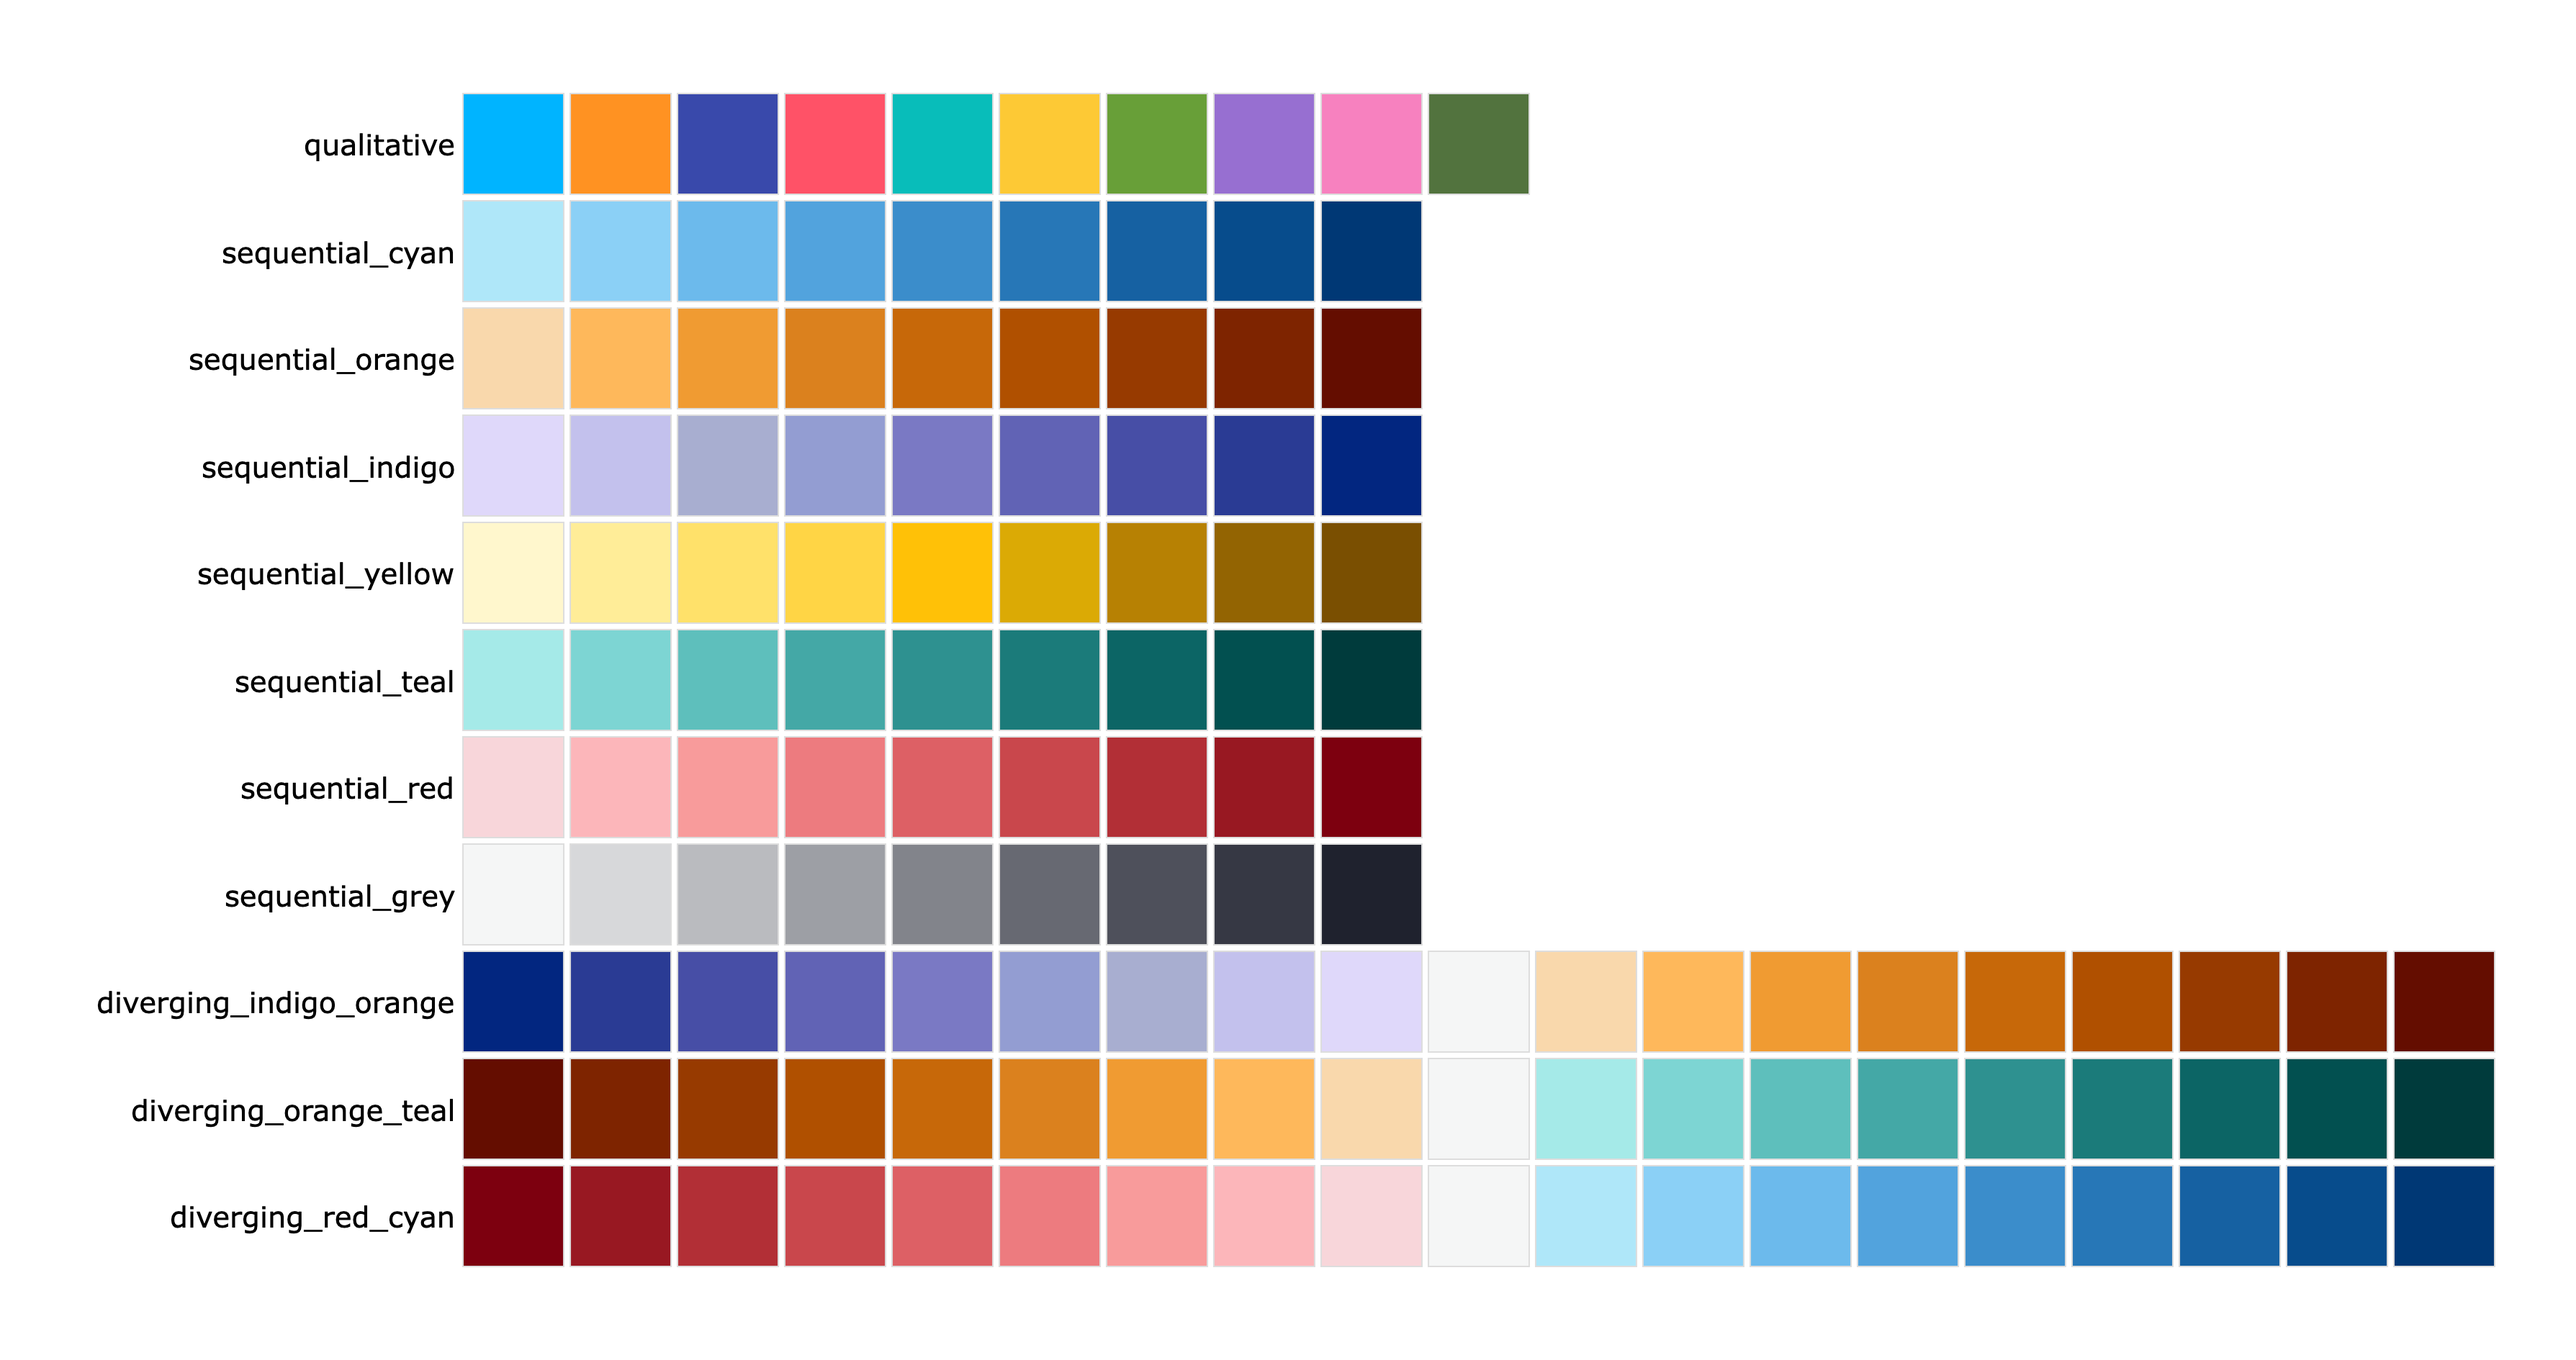
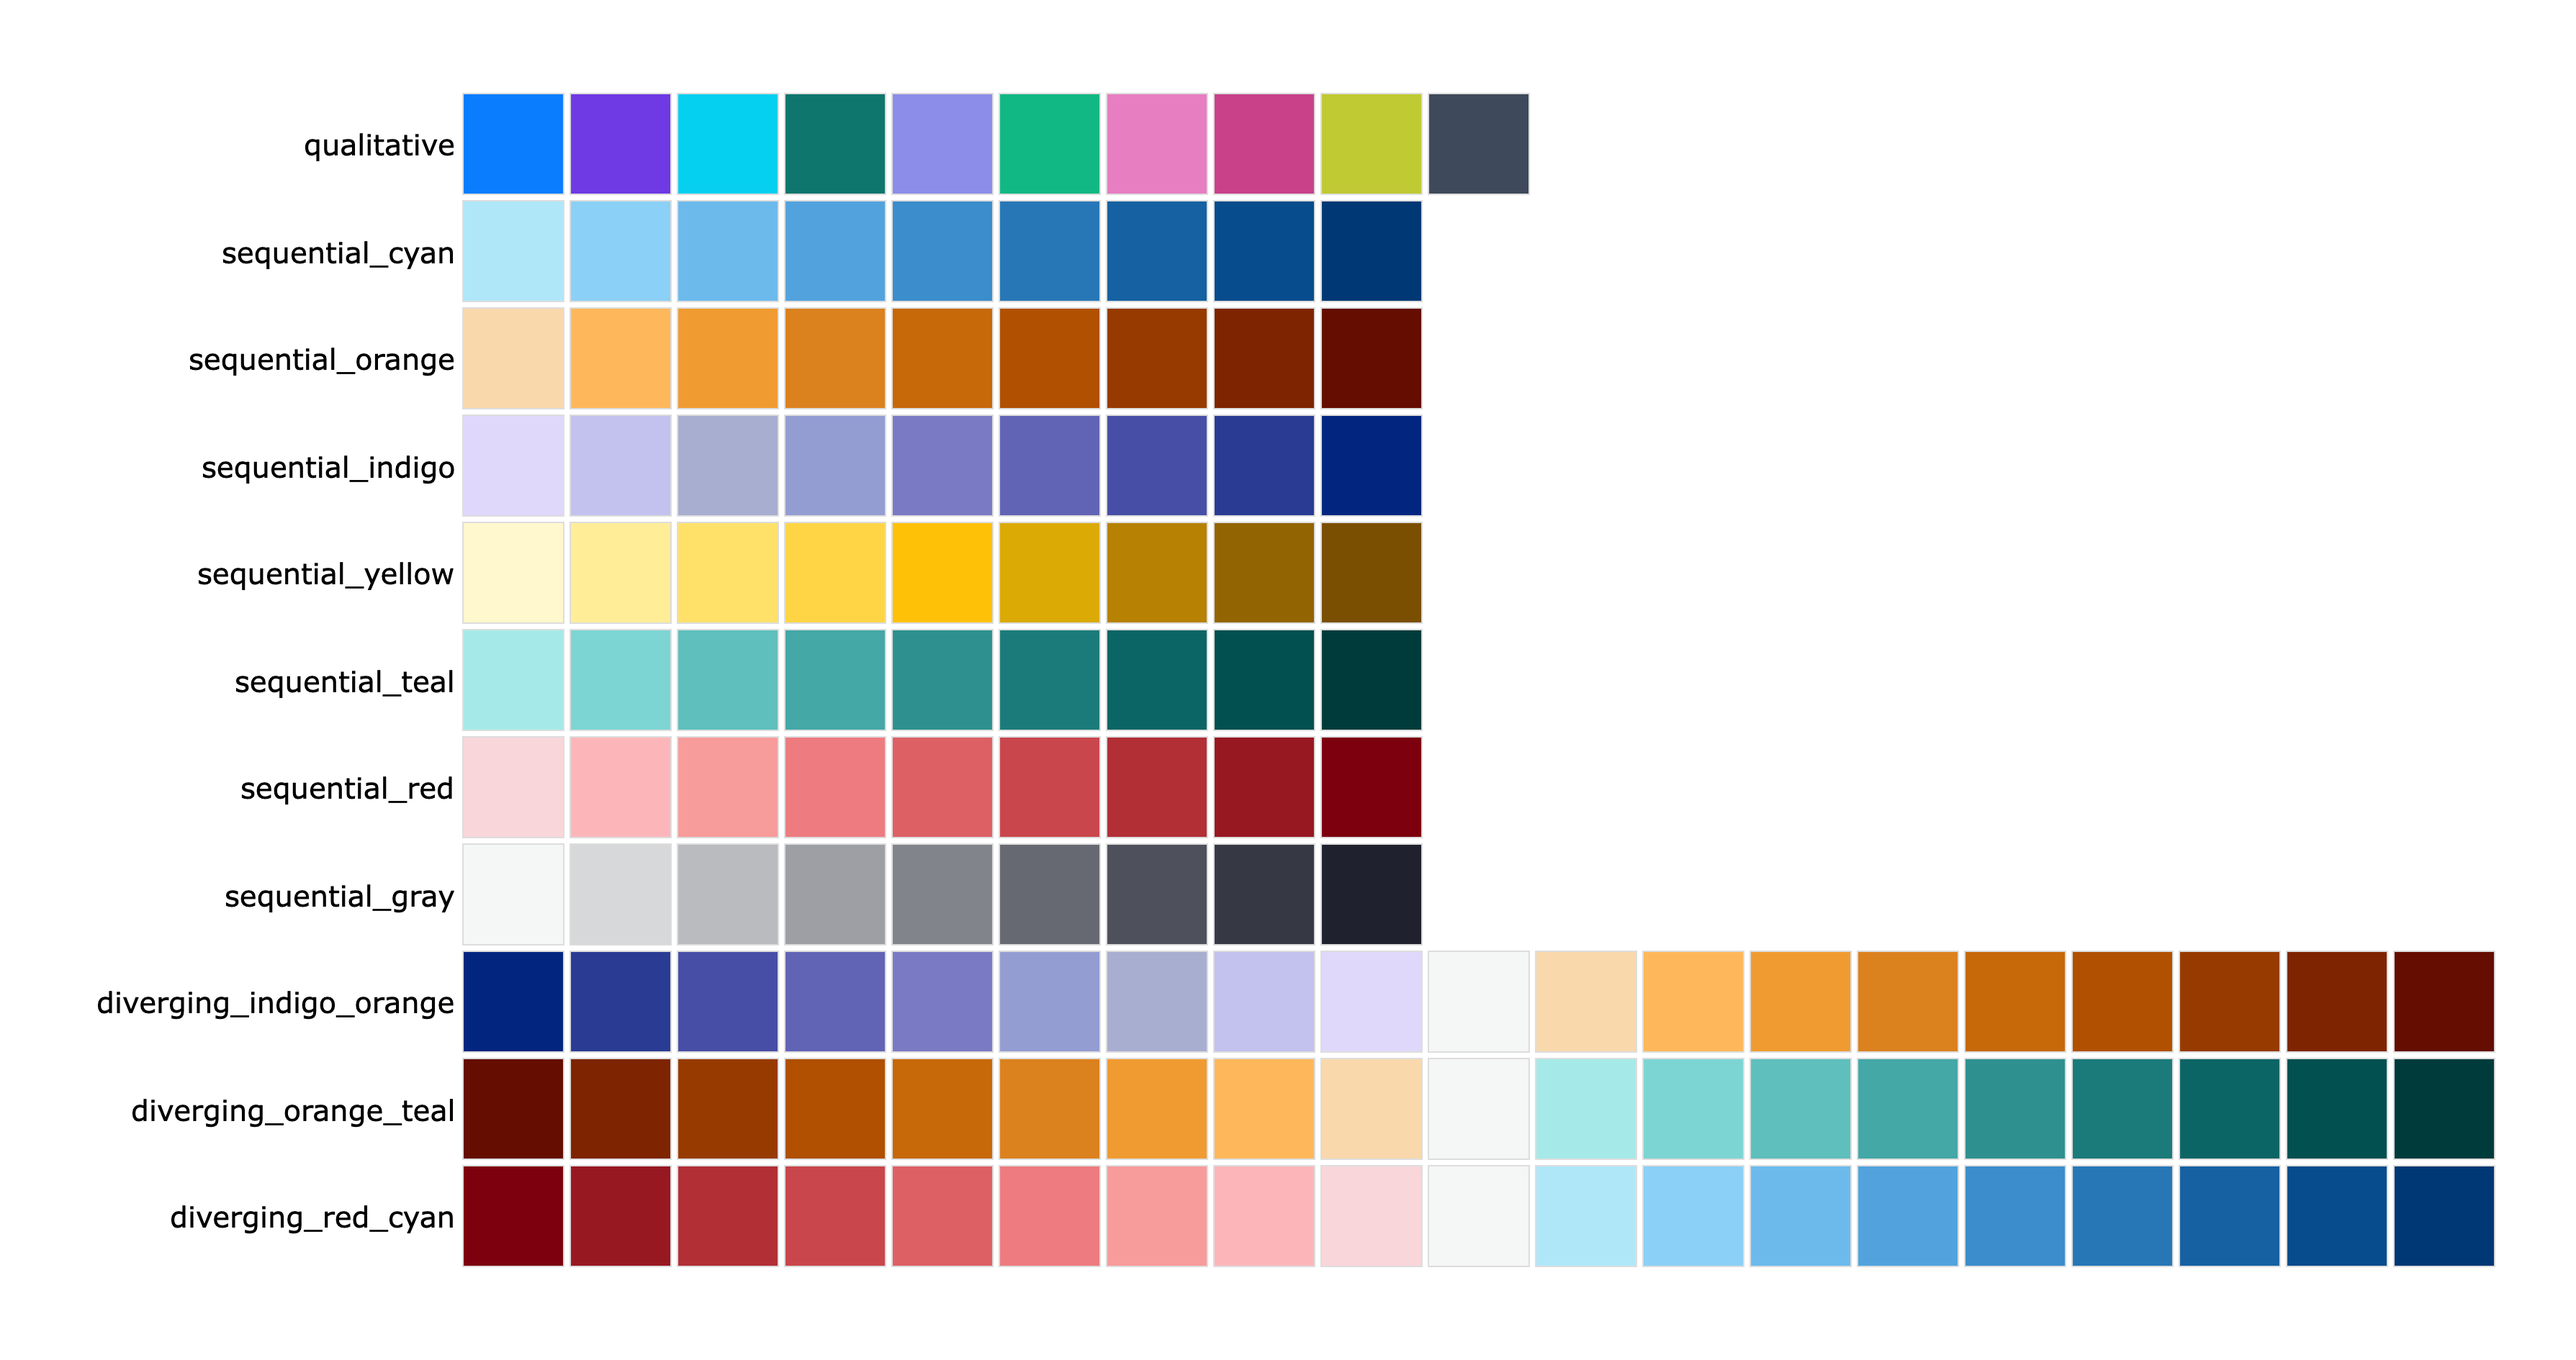
Tidy

Changed region(s): [[0.1551, 0.0624, 0.6205, 0.1561]]

diff --git a/vizro-core/tools/generate_theme_images.py b/vizro-core/tools/generate_theme_images.py
@@ -92,16 +92,16 @@ def generate_colors_image(output_path):
     """Generate colors reference image."""
     color_groups = {
         "Qualitative": [
-            "cyan",
-            "orange",
-            "indigo",
-            "red",
-            "teal",
-            "yellow",
-            "green",
-            "purple",
-            "pink",
+            "blue",
+            "dark_purple",
+            "turquoise",
             "dark_green",
+            "light_purple",
+            "light_green",
+            "light_pink",
+            "dark_pink",
+            "yellow",
+            "grey",
         ],
         "Cyan": [f"cyan_{i}00" for i in range(1, 10)],
         "Orange": [f"orange_{i}00" for i in range(1, 10)],
@@ -109,7 +109,7 @@ def generate_colors_image(output_path):
         "Yellow": [f"yellow_{i}00" for i in range(1, 10)],
         "Teal": [f"teal_{i}00" for i in range(1, 10)],
         "Red": [f"red_{i}00" for i in range(1, 10)],
-        "Grey": [f"grey_{i}00" for i in range(1, 10)],
+        "Grey": [f"gray_{i}00" for i in range(1, 10)],
         "Special": ["transparent", "white", "black"],
     }
 

diff --git a/vizro-core/tests/unit/vizro/themes/test_themes.py b/vizro-core/tests/unit/vizro/themes/test_themes.py
@@ -13,22 +13,22 @@ def test_import_colors_and_palettes():
 
 def test_access_color():
     """Test individual colors can be accessed."""
-    assert colors.cyan == "#00B4FF"
+    assert colors.blue == "#097DFE"
 
 
 def test_access_default_qualitative_palette():
     """Test qualitative palette can be accessed."""
     assert palettes.qualitative == [
-        "#00B4FF",
-        "#FF9222",
-        "#3949AB",
-        "#FF5267",
-        "#08BDBA",
-        "#FDC935",
-        "#689F38",
-        "#976FD1",
-        "#F781BF",
-        "#52733E",
+        "#097DFE",
+        "#6F39E3",
+        "#05D0F0",
+        "#0F766E",
+        "#8C8DE9",
+        "#11B883",
+        "#E77EC2",
+        "#C84189",
+        "#C0CA33",
+        "#3E495B",
     ]
 
 
